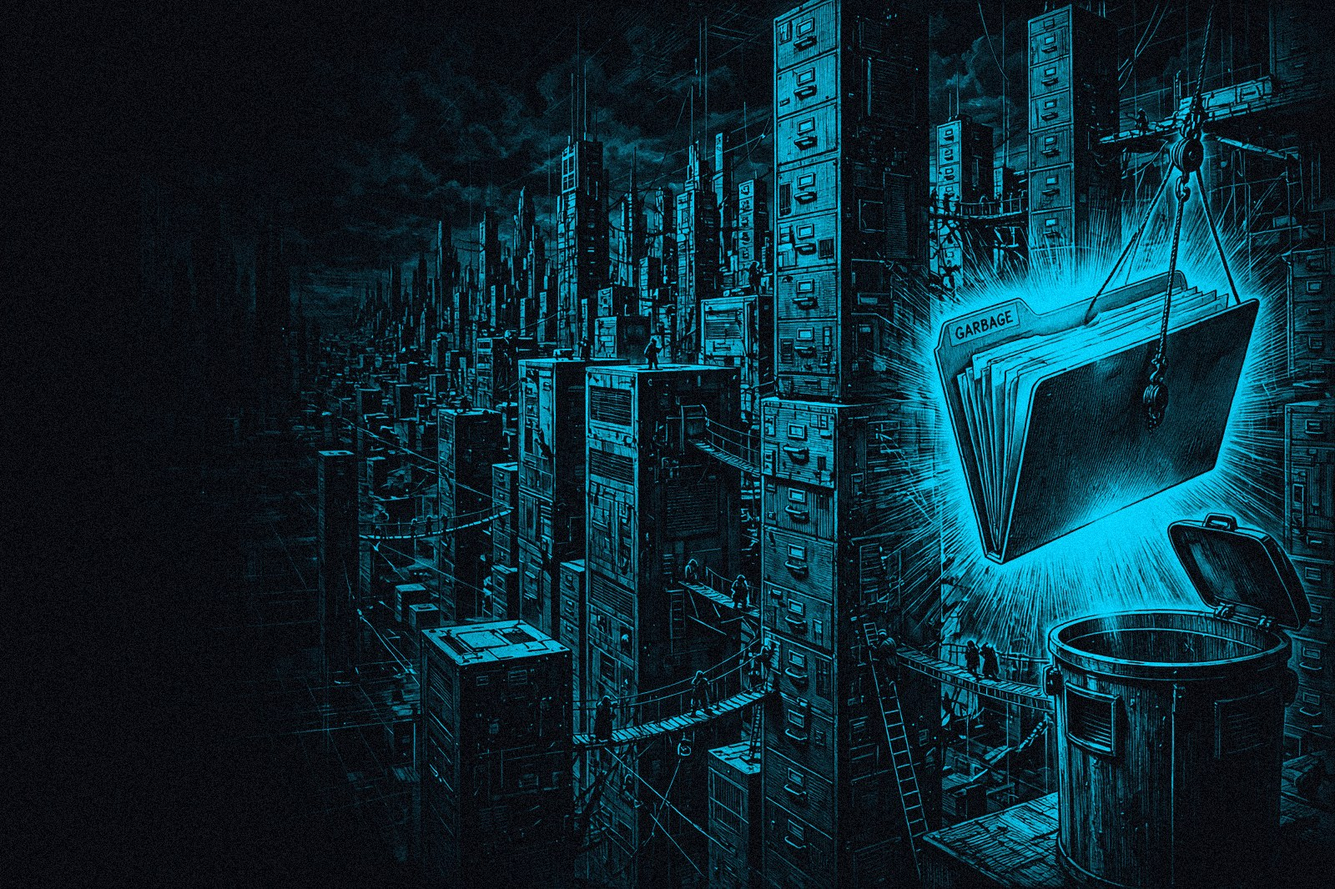
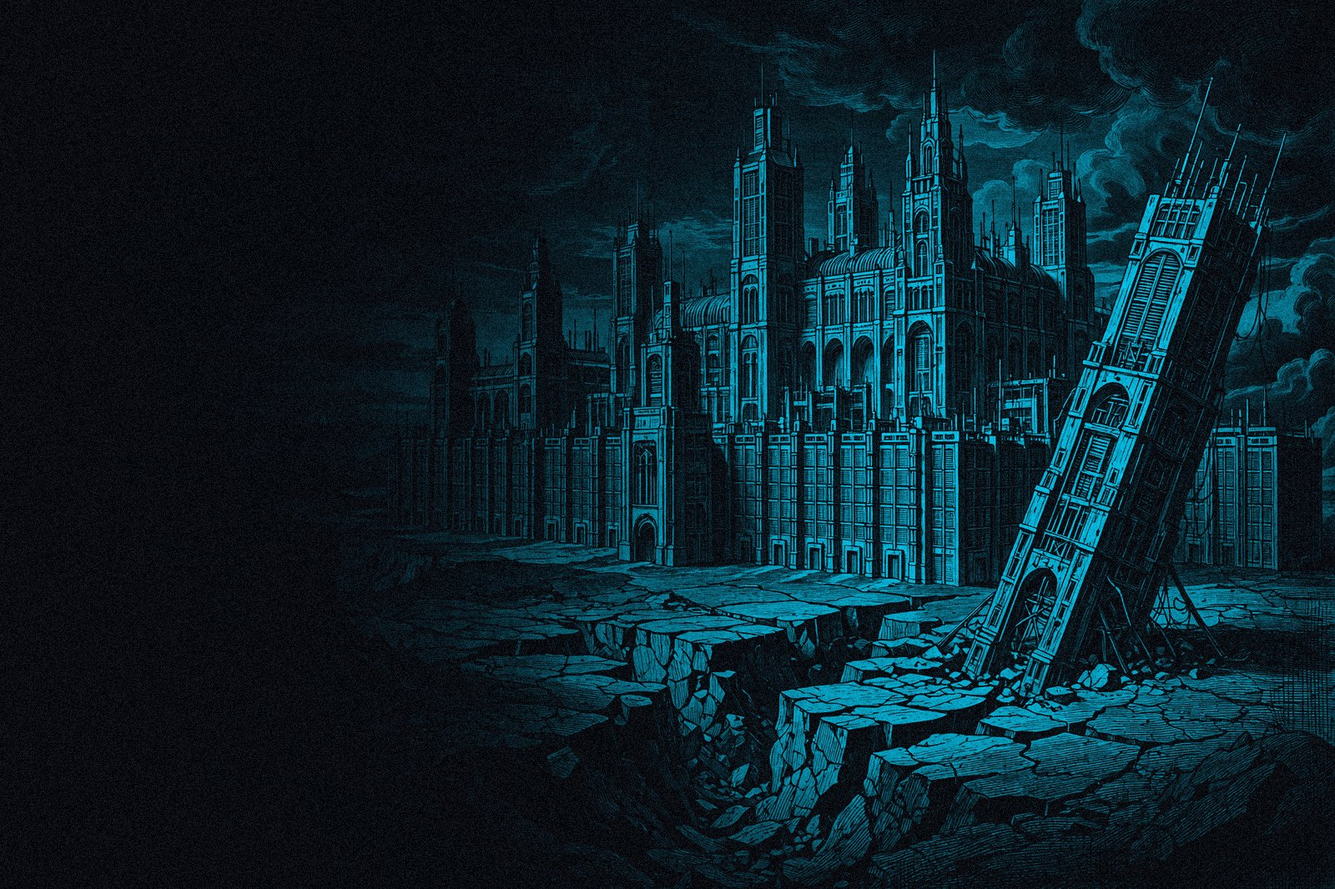
Blake batch: new H1, dark-side section copy, pit-viper panel, quiet-before-fall hero, faster image reveals

diff --git a/index.html b/index.html
@@ -3,9 +3,10 @@
 <head>
 <meta charset="UTF-8" />
 <meta name="viewport" content="width=device-width, initial-scale=1.0" />
-<title>BLACKSITE — The keyboard cowboys</title>
+<title>BLACKSITE — We know what happens next</title>
 <meta name="description" content="BLACKSITE is an independent engineering company working across offensive security, AI red-teaming, chaos engineering, and data forensics." />
-<meta property="og:title" content="BLACKSITE — The keyboard cowboys" />
+<meta property="og:title" content="BLACKSITE — We know what happens next" />
+<link rel="preload" as="image" href="assets/img/hero-engraving.jpg" fetchpriority="high" />
 <meta property="og:description" content="Independent engineering across offensive security, AI red-teaming, chaos engineering, and data forensics." />
 <meta property="og:type" content="website" />
 <meta name="theme-color" content="#090B10" />
@@ -55,7 +56,7 @@
     <div class="wrap hero-grid">
       <div class="hero-copy">
         <p class="eyebrow reveal-hero"><span class="tick" aria-hidden="true"></span>Independent engineering — Est. MMXXVI</p>
-        <h1 class="hero-title reveal-hero">The keyboard<br /><em>cowboys.</em></h1>
+        <h1 class="hero-title reveal-hero">WE KNOW WHAT<br /><em>HAPPENS NEXT.</em></h1>
         <p class="hero-lede reveal-hero">BLACKSITE is an independent engineering company working across offensive security, AI red-teaming, chaos engineering, and data forensics. Built by hand. Built to hold.</p>
         <div class="hero-ctas reveal-hero">
           <a class="btn btn-solid" href="#contact"><span>Open a channel</span></a>
@@ -63,12 +64,12 @@
         </div>
         <p class="hero-meta reveal-hero"><span class="pulse" aria-hidden="true"></span>ALL SYSTEMS NOMINAL — NIGHT SHIFT ACTIVE</p>
       </div>
-      <figure class="hero-fig reveal-hero" aria-label="Engraving of a hooded operator before a wall of watch-screens">
+      <figure class="hero-fig reveal-hero" aria-label="Engraving of a serene server fortress beginning to fracture">
         <div class="hero-fig-frame">
-          <img class="hero-fig-img" src="assets/img/hero-engraving.jpg" alt="Copperplate engraving of a hooded operator at a great wall of glowing watch-screens" fetchpriority="high" />
+          <img class="hero-fig-img" src="assets/img/hero-engraving.jpg" alt="Copperplate engraving of a serene server fortress beginning to fracture and fall" fetchpriority="high" loading="eager" decoding="async" />
           <div class="px-noise" aria-hidden="true"></div>
         </div>
-        <figcaption class="mono-cap">FIG. 01 — HACKING THE GIBSON</figcaption>
+        <figcaption class="mono-cap">FIG. 01 — THE QUIET BEFORE THE FALL</figcaption>
       </figure>
     </div>
     <div class="hero-strip" aria-hidden="true">
@@ -80,11 +81,11 @@
   <section class="section signal" id="signal" aria-labelledby="signal-h">
     <div class="wrap">
       <p class="eyebrow reveal"><span class="tick" aria-hidden="true"></span>SEC.01 — Signal</p>
-      <h2 id="signal-h" class="display reveal">We do our best work<br /><em>after midnight.</em></h2>
-      <p class="section-lede reveal">While the dashboards sleep, the attack surface stays awake. We map it, probe it, and break it — in controlled conditions, on your side of the wire.</p>
+      <h2 id="signal-h" class="display reveal">YOUR SYSTEM HAS<br /><em>A DARK SIDE.</em></h2>
+      <p class="section-lede reveal">Default credentials nobody ever changed. The backup that was never tested. The firewall rule added &ldquo;temporarily&rdquo; three years ago. The laptop sitting on the production VPN. These are the classic tenderfoot mistakes &mdash; we have seen every one of them, usually the week before they detonate. We find them first, so you never meet them at 3 a.m.</p>
     </div>
     <div class="wrap signal-stage reveal">
-      <div class="px-panel" data-px-speed="1" role="img" aria-label="Engraving of a raven perched on a monolithic server tower">
+      <div class="px-panel" data-px-speed="1" role="img" aria-label="Engraving of a pit viper coiled in shadow around a monolithic server tower">
         <img class="px-img" src="assets/img/panel-omen.jpg" alt="" />
         <div class="px-noise" aria-hidden="true"></div>
         <div class="px-frame-line" aria-hidden="true"></div>
@@ -108,25 +109,25 @@
         <p class="section-lede reveal">BLACKSITE does not sell services off a shelf. Four practices feed one another — the models harden the defenses, the breakage teaches the models, the data carries the evidence.</p>
         <div class="cap-grid">
           <article class="cap-card reveal" tabindex="0">
-            <div class="cap-media"><img src="assets/img/cap-recon.jpg" alt="Engraving of a great eye emerging from circuit labyrinths" loading="lazy" /></div>
+            <div class="cap-media"><img src="assets/img/cap-recon.jpg" alt="Engraving of a great eye emerging from circuit labyrinths" loading="lazy" decoding="async" /></div>
             <p class="cap-num">#1 — RECON</p>
             <h3>Offensive Security</h3>
             <p>Attack-surface mapping, adversary simulation, and vulnerability research — conducted against your systems, with your permission, before someone else does it without.</p>
           </article>
           <article class="cap-card reveal" tabindex="0">
-            <div class="cap-media cap-media-red"><img src="assets/img/cap-breach.jpg" alt="Engraving of a breached fortress wall revealing circuitry within" loading="lazy" /></div>
+            <div class="cap-media cap-media-red"><img src="assets/img/cap-breach.jpg" alt="Engraving of a breached fortress wall revealing circuitry within" loading="lazy" decoding="async" /></div>
             <p class="cap-num">#2 — BREACH</p>
             <h3>AI Red-Teaming</h3>
             <p>We break machine-intelligence systems on purpose — prompt injection, jailbreak resistance, agentic tool-use abuse — so the failure happens in our lab, never in your production.</p>
           </article>
           <article class="cap-card reveal" tabindex="0">
-            <div class="cap-media"><img src="assets/img/cap-persist.jpg" alt="Engraving of a cable serpent coiled around a dark obelisk" loading="lazy" /></div>
+            <div class="cap-media"><img src="assets/img/cap-persist.jpg" alt="Engraving of a cable serpent coiled around a dark obelisk" loading="lazy" decoding="async" /></div>
             <p class="cap-num">#3 — PERSIST</p>
             <h3>Chaos Engineering</h3>
             <p>Controlled fault injection and resilience proving. We take systems down in the lab, on schedule, so they stay up in the world when it counts.</p>
           </article>
           <article class="cap-card reveal" tabindex="0">
-            <div class="cap-media"><img src="assets/img/cap-exfil.jpg" alt="Engraving of ravens carrying streams of light from a dark citadel" loading="lazy" /></div>
+            <div class="cap-media"><img src="assets/img/cap-exfil.jpg" alt="Engraving of ravens carrying streams of light from a dark citadel" loading="lazy" decoding="async" /></div>
             <p class="cap-num">#4 — EXFIL</p>
             <h3>Data Forensics</h3>
             <p>Breach analysis, evidence preservation, and data pipelines that answer the only questions that matter after an incident: what left, when, and how.</p>

diff --git a/css/styles.css b/css/styles.css
@@ -170,8 +170,8 @@ a { color: inherit; }
 }
 .hero-title {
   font-family: var(--serif); font-weight: 300;
-  font-size: clamp(3.6rem, 9.5vw, 8.5rem);
-  line-height: 0.95; letter-spacing: -0.015em; margin: 0 0 30px;
+  font-size: clamp(2.4rem, 5.6vw, 4.2rem);
+  line-height: 1.02; letter-spacing: 0.01em; margin: 0 0 30px;
 }
 .hero-title em { font-style: italic; color: var(--accent); text-shadow: 0 0 60px rgba(0, 212, 255, 0.35); }
 .hero-lede { max-width: 480px; color: var(--muted); font-size: 17px; line-height: 1.75; margin: 0 0 40px; }
@@ -283,7 +283,7 @@ a { color: inherit; }
   transform: translateY(-6px); border-color: rgba(0, 212, 255, 0.55);
   box-shadow: 0 24px 70px rgba(0, 0, 0, 0.55), 0 0 40px rgba(0, 212, 255, 0.1);
 }
-.cap-media { overflow: hidden; aspect-ratio: 4 / 3; border-bottom: 1px solid var(--border); }
+.cap-media { overflow: hidden; aspect-ratio: 4 / 3; border-bottom: 1px solid var(--border); background: var(--surface-2); }
 .cap-media img { width: 100%; height: 100%; object-fit: cover; transition: transform 0.6s ease; }
 .cap-card:hover .cap-media img { transform: scale(1.06); }
 .cap-num {
@@ -366,7 +366,7 @@ a { color: inherit; }
 .footer-right { text-align: right; }
 
 /* ---------- reveal ---------- */
-.reveal, .reveal-hero { opacity: 0; transform: translateY(30px); transition: opacity 0.9s ease, transform 0.9s cubic-bezier(0.16, 1, 0.3, 1); transition-delay: var(--d, 0s); }
+.reveal, .reveal-hero { opacity: 0; transform: translateY(30px); transition: opacity 0.7s ease, transform 0.7s cubic-bezier(0.16, 1, 0.3, 1); transition-delay: var(--d, 0s); }
 .reveal.in, .reveal-hero.in { opacity: 1; transform: none; }
 .hero-fig.reveal-hero { opacity: 0; transform: translate3d(0, var(--py-hero, 0px), 0); transition: opacity 1s ease; transition-delay: var(--d, 0s); }
 .hero-fig.reveal-hero.in { opacity: 1; transform: translate3d(0, var(--py-hero, 0px), 0); }

diff --git a/js/app.js b/js/app.js
@@ -240,7 +240,7 @@
         revealIO.unobserve(en.target);
       }
     });
-  }, { threshold: 0.12, rootMargin: "0px 0px -6% 0px" });
+  }, { threshold: 0.05, rootMargin: "500px 0px 500px 0px" });
 
   function staggerize(scope) {
     var items = scope.querySelectorAll(".reveal:not([data-staggered]), .reveal-hero:not([data-staggered])");
